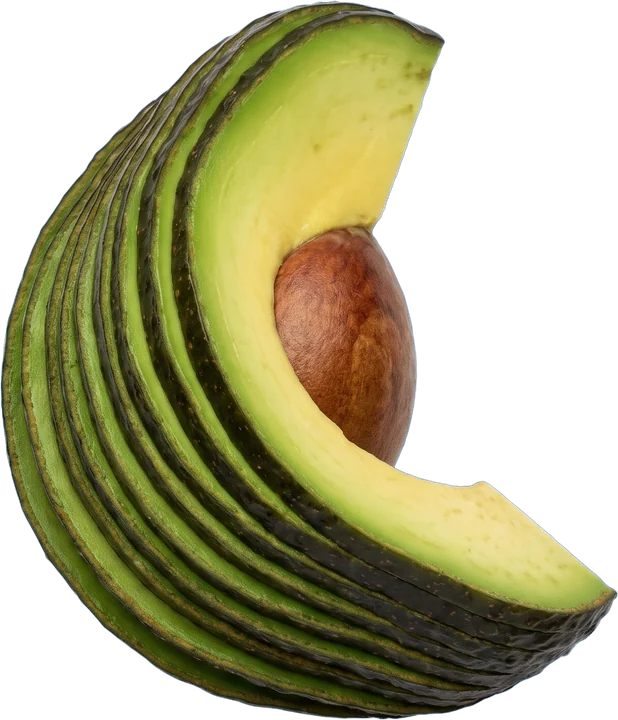
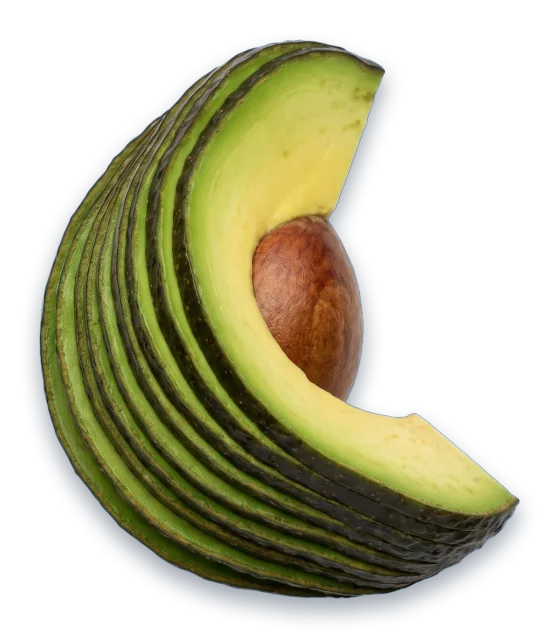
nami: pinned sections fit short screens (height-based sizing), shadows baked into images instead of live filters, delivery route under the headline, steadier pins

diff --git a/public/concepts/nami/index.html b/public/concepts/nami/index.html
@@ -103,10 +103,10 @@ html.no-loader .loader{display:none}
 /* ---------- hero ---------- */
 .hero{position:relative;min-height:100svh;padding:110px var(--pad) 60px;display:grid;grid-template-rows:1fr auto;overflow:hidden}
 .hero-stage{position:relative;display:grid;place-items:center}
-.poke{font:900 clamp(7rem,27vw,30rem)/.8 var(--display);letter-spacing:-.04em;color:var(--coral);-webkit-text-stroke:.012em var(--ink);paint-order:stroke fill;text-shadow:.035em .035em 0 var(--ink);margin:0;display:flex;justify-content:center;white-space:nowrap;user-select:none}
-.poke span{display:inline-block;will-change:transform}
-.bowl-hero{position:absolute;left:50%;top:50%;width:clamp(260px,38vw,560px);aspect-ratio:1;translate:-50% -46%;z-index:2}
-.bowl-hero .spin{width:100%;height:100%;filter:drop-shadow(0 30px 40px rgba(16,36,58,.28))}
+.poke{font:900 clamp(5rem,min(27vw,46vh),30rem)/.8 var(--display);letter-spacing:-.04em;color:var(--coral);-webkit-text-stroke:.012em var(--ink);paint-order:stroke fill;text-shadow:.035em .035em 0 var(--ink);margin:0;display:flex;justify-content:center;white-space:nowrap;user-select:none}
+.poke span{display:inline-block}
+.bowl-hero{position:absolute;left:50%;top:50%;width:clamp(240px,min(38vw,64vh),560px);aspect-ratio:1;translate:-50% -46%;z-index:2}
+.bowl-hero .spin{width:100%;height:100%}
 .bowl-hero img{width:100%;height:100%;object-fit:contain}
 .eyes{position:absolute;left:50%;top:8%;translate:-50% 0;display:flex;gap:6%;width:46%;z-index:3;pointer-events:none}
 .eye{position:relative;flex:1;aspect-ratio:1;background:#fff;border:3px solid var(--ink);border-radius:50%;box-shadow:3px 4px 0 var(--ink);overflow:hidden}
@@ -145,13 +145,13 @@ html.no-loader .loader{display:none}
 
 /* ---------- menu (ocean) ---------- */
 .menu{position:relative;background:var(--ocean);color:var(--rice);z-index:2}
-.menu-pin{min-height:100svh;display:flex;flex-direction:column;justify-content:center;padding:clamp(96px,9vw,120px) 0 clamp(40px,5vw,70px);overflow:hidden}
-.menu-head .h2{font-size:clamp(2.4rem,5.6vw,5.4rem)}
+.menu-pin{min-height:100svh;display:flex;flex-direction:column;justify-content:center;padding:clamp(76px,11vh,120px) 0 clamp(20px,4vh,60px);overflow:hidden}
+.menu-head .h2{font-size:clamp(2.2rem,min(5.6vw,9.5vh),5.4rem)}
 .menu-head{display:flex;justify-content:space-between;align-items:flex-end;gap:30px;flex-wrap:wrap}
 .menu-head .h2 .o{-webkit-text-stroke-color:var(--rice)}
 .menu-head p{max-width:34ch;margin:0;opacity:.85}
-.menu-track{display:flex;gap:clamp(18px,2vw,30px);padding:clamp(30px,3.5vw,50px) var(--pad) 10px;width:max-content;will-change:transform}
-.bcard{position:relative;width:clamp(280px,25vw,360px);flex:none;border:3px solid var(--ink);border-radius:28px;padding:22px 22px 26px;color:var(--ink);box-shadow:7px 7px 0 var(--ink);display:flex;flex-direction:column}
+.menu-track{display:flex;gap:clamp(18px,2vw,30px);padding:clamp(18px,4vh,50px) var(--pad) 10px;width:max-content;will-change:transform}
+.bcard{position:relative;width:clamp(240px,min(25vw,44vh),360px);flex:none;border:3px solid var(--ink);border-radius:28px;padding:22px 22px 26px;color:var(--ink);box-shadow:7px 7px 0 var(--ink);display:flex;flex-direction:column}
 .bcard:nth-child(5n+1){background:var(--rice)}
 .bcard:nth-child(5n+2){background:var(--coral);color:var(--rice)}
 .bcard:nth-child(5n+3){background:var(--mango)}
@@ -159,9 +159,9 @@ html.no-loader .loader{display:none}
 .bcard:nth-child(5n+5){background:#F7C9B6}
 .bcard .no{font:700 .72rem/1 var(--display);letter-spacing:.1em;opacity:.7}
 .bcard .pic{position:relative;width:66%;margin:8px auto 4px;aspect-ratio:1}
-.bcard .pic img{width:100%;height:100%;object-fit:contain;filter:drop-shadow(0 16px 18px rgba(16,36,58,.3));transition:transform 1.1s var(--ease)}
+.bcard .pic img{width:100%;height:100%;object-fit:contain;transition:transform 1.1s var(--ease)}
 .bcard:hover .pic img{transform:rotate(40deg) scale(1.04)}
-.bcard h3{font:900 clamp(1.25rem,1.7vw,1.6rem)/1 var(--display);text-transform:uppercase;letter-spacing:-.01em;margin:12px 0 8px}
+.bcard h3{font:900 clamp(1.1rem,min(1.7vw,3vh),1.6rem)/1 var(--display);text-transform:uppercase;letter-spacing:-.01em;margin:12px 0 8px}
 .bcard p{margin:0;font-size:.95rem;line-height:1.45;opacity:.9;flex:1}
 .bcard .row{display:flex;justify-content:space-between;align-items:center;margin-top:18px}
 .bcard .price{font:900 1.35rem/1 var(--display)}
@@ -179,33 +179,34 @@ html.no-loader .loader{display:none}
 .steps p{margin:0;font-size:.95rem;line-height:1.45}
 .bar{height:6px;border-radius:6px;background:rgba(16,36,58,.12);margin-top:26px;overflow:hidden;max-width:420px}
 .bar i{display:block;height:100%;width:100%;background:var(--coral);transform-origin:left;transform:scaleX(0)}
-.plate{position:relative;width:100%;max-width:640px;aspect-ratio:1;margin:0 auto}
+.plate{position:relative;width:100%;max-width:min(640px,72vh);aspect-ratio:1;margin:0 auto}
+.compose-pin .h2{font-size:clamp(2.2rem,min(7.4vw,10.5vh),7.2rem)}
 .plate .ring{position:absolute;inset:4%;border-radius:50%;border:2.5px dashed rgba(16,36,58,.25)}
 .plate .bw{position:absolute;inset:12%}
-.plate .bw img{position:absolute;inset:0;width:100%;height:100%;object-fit:contain;filter:drop-shadow(0 26px 30px rgba(16,36,58,.25))}
+.plate .bw img{position:absolute;inset:0;width:100%;height:100%;object-fit:contain}
 .plate .full{opacity:0}
-.ing{position:absolute;width:28%;left:36%;top:36%;z-index:3;filter:drop-shadow(0 14px 14px rgba(16,36,58,.25));will-change:transform}
+.ing{position:absolute;width:28%;left:36%;top:36%;z-index:3}
 .ing img{width:100%}
 .done{position:absolute;right:2%;top:4%;rotate:10deg;z-index:5;opacity:0}
 
 /* ---------- wave photo ---------- */
 .dive{position:relative;height:clamp(520px,110vh,1100px);overflow:hidden;background:var(--foam)}
 .dive-frame{position:absolute;inset:0;clip-path:url(#waveClip)}
-.dive-frame img{width:100%;height:100%;object-fit:cover;transform:scale(1.25);will-change:transform}
+.dive-frame img{width:100%;height:100%;object-fit:cover;transform:scale(1.25)}
 .dive-frame::after{content:"";position:absolute;inset:0;background:linear-gradient(to top,rgba(14,59,92,.55),transparent 55%)}
-.dive-text{position:absolute;left:0;right:0;bottom:16%;z-index:2;font:900 clamp(3rem,11vw,11rem)/.9 var(--display);text-transform:uppercase;letter-spacing:-.03em;color:var(--rice);white-space:nowrap;text-shadow:.03em .03em 0 var(--ink);-webkit-text-stroke:.012em var(--ink);paint-order:stroke fill;will-change:transform}
+.dive-text{position:absolute;left:0;right:0;bottom:16%;z-index:2;font:900 clamp(3rem,11vw,11rem)/.9 var(--display);text-transform:uppercase;letter-spacing:-.03em;color:var(--rice);white-space:nowrap;text-shadow:.03em .03em 0 var(--ink);-webkit-text-stroke:.012em var(--ink);paint-order:stroke fill}
 
 /* ---------- delivery (mango) ---------- */
 .deliv{position:relative;background:var(--mango);z-index:2}
 .deliv-pin{position:relative;height:100svh;overflow:hidden}
 .deliv-copy{position:absolute;left:var(--pad);top:clamp(90px,11vw,140px);z-index:3;max-width:820px}
-.deliv-copy .h2{font-size:clamp(2.3rem,5.4vw,5.4rem)}
+.deliv-copy .h2{font-size:clamp(2rem,min(5.4vw,9vh),5.4rem)}
 .deliv-copy .h2{color:var(--rice);-webkit-text-stroke:.02em var(--ink);paint-order:stroke fill;text-shadow:.04em .04em 0 var(--ink)}
 .deliv-copy .lead{margin-top:22px;font-weight:500}
 .route{position:absolute;inset:0;width:100%;height:100%;z-index:1}
 .route path{fill:none;stroke:var(--ink);stroke-width:3;stroke-dasharray:2 14;stroke-linecap:round;opacity:.45}
-.fish{position:absolute;left:0;top:0;width:92px;z-index:4;will-change:transform}
-.pol{position:absolute;z-index:2;width:clamp(130px,13vw,190px);background:var(--rice);padding:9px 9px 34px;border:2.5px solid var(--ink);border-radius:6px;box-shadow:5px 5px 0 var(--ink);transform:scale(0);transform-origin:50% 100%}
+.fish{position:absolute;left:0;top:0;width:92px;z-index:4}
+.pol{position:absolute;z-index:2;width:clamp(110px,min(13vw,22vh),190px);background:var(--rice);padding:9px 9px 34px;border:2.5px solid var(--ink);border-radius:6px;box-shadow:5px 5px 0 var(--ink);transform:scale(0);transform-origin:50% 100%}
 .pol img{width:100%;aspect-ratio:3/4;object-fit:cover;border-radius:3px}
 .pol span{position:absolute;left:0;right:0;bottom:9px;text-align:center;font:700 .74rem/1 var(--display);text-transform:uppercase;letter-spacing:.05em}
 
@@ -229,7 +230,7 @@ html.no-loader .loader{display:none}
 .portrait .ph{border:3px solid var(--ink);border-radius:46% 54% 48% 52% / 40% 42% 58% 60%;overflow:hidden;box-shadow:8px 8px 0 var(--ink);aspect-ratio:4/5}
 .portrait .ph img{width:100%;height:100%;object-fit:cover}
 .portrait .sticker{position:absolute;left:-6%;top:12%;rotate:-10deg;font-size:1rem}
-.portrait .ing-float{position:absolute;width:34%;right:-10%;bottom:6%;rotate:12deg;filter:drop-shadow(0 14px 14px rgba(16,36,58,.3))}
+.portrait .ing-float{position:absolute;width:34%;right:-10%;bottom:6%;rotate:12deg}
 
 /* ---------- footer ---------- */
 .foot{position:relative;background:var(--ocean);color:var(--rice);padding:clamp(110px,12vw,160px) 0 26px;overflow:hidden}
@@ -241,7 +242,7 @@ html.no-loader .loader{display:none}
 .giant .word{font:400 clamp(8rem,34vw,34rem)/1 var(--logo);margin-top:-.42em;padding-bottom:.38em;color:var(--coral);-webkit-text-stroke:.012em var(--ink);paint-order:stroke fill;text-shadow:.025em .025em 0 var(--ink);text-align:center;letter-spacing:-.02em;user-select:none}
 .giant .word span{display:inline-block;transition:transform .5s var(--ease)}
 .giant .word span:hover{transform:translateY(-6%) rotate(-4deg)}
-.drop{position:absolute;width:clamp(56px,8vw,130px);top:0;left:0;z-index:2;pointer-events:none;filter:drop-shadow(0 10px 10px rgba(0,0,0,.25))}
+.drop{position:absolute;width:clamp(56px,8vw,130px);top:0;left:0;z-index:2;pointer-events:none}
 .foot-base{display:flex;justify-content:space-between;flex-wrap:wrap;gap:10px;margin-top:22px;padding-top:18px;border-top:1px solid rgba(255,246,234,.18);font-size:.82rem;opacity:.75}
 .foot-base a{text-decoration:underline}
 
@@ -276,6 +277,20 @@ html.no-loader .loader{display:none}
   .fish{width:64px}
   .visit-grid{grid-template-columns:1fr}
   .foot-grid{grid-template-columns:repeat(2,minmax(0,1fr))}
+}
+@media (min-width:901px) and (max-height:820px){
+  .compose-pin{padding-top:84px;padding-bottom:24px}
+  .compose-pin .sticker{margin-bottom:12px!important}
+  .steps{margin-top:16px;gap:6px}
+  .steps li{grid-template-columns:40px 1fr;gap:10px}
+  .steps li .n{width:40px;height:40px;font-size:.75rem}
+  .steps h3{font-size:1rem;margin-top:8px}
+  .steps p{display:none}
+  .steps li.on p{display:block}
+  .bar{margin-top:14px}
+  .deliv-copy{top:84px}
+  .deliv-copy .sticker{margin-bottom:12px!important}
+  .deliv-copy .lead{margin-top:12px;font-size:.95rem}
 }
 @media (prefers-reduced-motion:reduce){
   *{animation:none!important;transition:none!important}
@@ -354,7 +369,7 @@ html.no-loader .loader{display:none}
       <span>P</span><span>O</span><span>K</span><span>É</span>
     </h1>
     <div class="bowl-hero" id="heroBowl">
-      <div class="spin" id="heroSpin"><img src="assets/bowl-nami.webp" alt="Bol signature nami : saumon, avocat, mangue, edamame et mayo épicée" data-alt-en="Signature nami bowl: salmon, avocado, mango, edamame and spicy mayo" width="1174" height="1200" fetchpriority="high"></div>
+      <div class="spin" id="heroSpin"><img src="assets/bowl-nami.webp" alt="Bol signature nami : saumon, avocat, mangue, edamame et mayo épicée" data-alt-en="Signature nami bowl: salmon, avocado, mango, edamame and spicy mayo" width="951" height="970" fetchpriority="high"></div>
       <div class="eyes" id="eyes" aria-hidden="true">
         <span class="eye"><b></b><i class="lid"></i></span>
         <span class="eye"><b></b><i class="lid"></i></span>
@@ -600,6 +615,7 @@ html.no-loader .loader{display:none}
   var $ = function(s, r){ return (r || document).querySelector(s); };
   var $$ = function(s, r){ return Array.prototype.slice.call((r || document).querySelectorAll(s)); };
   gsap.registerPlugin(ScrollTrigger, MotionPathPlugin);
+  ScrollTrigger.config({ ignoreMobileResize: true });
 
   /* ---------- language ---------- */
   var TITLES = { fr: 'nami · poké bar', en: 'nami · poke bar' };
@@ -760,7 +776,7 @@ html.no-loader .loader{display:none}
       var track = $('#menuTrack');
       var dist = function(){ return Math.max(0, track.scrollWidth - window.innerWidth); };
       var tw = gsap.to(track, { x: function(){ return -dist(); }, ease: 'none',
-        scrollTrigger: { trigger: '#menuPin', start: 'top top', end: function(){ return '+=' + dist(); }, pin: true, scrub: 1, invalidateOnRefresh: true } });
+        scrollTrigger: { trigger: '#menuPin', start: 'top top', end: function(){ return '+=' + dist(); }, pin: true, scrub: 1, anticipatePin: 1, invalidateOnRefresh: true } });
       $$('.bcard .pic img').forEach(function(img){
         gsap.to(img, { rotate: 160, ease: 'none', scrollTrigger: { trigger: '#menuPin', start: 'top top', end: function(){ return '+=' + dist(); }, scrub: true } });
       });
@@ -790,7 +806,7 @@ html.no-loader .loader{display:none}
           .to(ings[k], { xPercent: L[0] * 3.6, yPercent: L[1] * 3.6, scale: L[2], rotate: L[3], duration: 1, ease: 'power3.out' }, at);
       }
       mm.add('(min-width: 0px)', function(){
-        var tl = gsap.timeline({ scrollTrigger: { trigger: '#composePin', start: 'top top', end: '+=260%', pin: true, scrub: 1,
+        var tl = gsap.timeline({ scrollTrigger: { trigger: '#composePin', start: 'top top', end: '+=260%', pin: true, scrub: 1, anticipatePin: 1,
           onUpdate: function(self){ var p = self.progress; stepOn(p < .2 ? 0 : p < .45 ? 1 : p < .78 ? 2 : 3); } } });
         tl.to('#bar', { scaleX: 1, ease: 'none', duration: 10 }, 0)
           .from('.plate .base', { scale: .6, rotate: -90, duration: 1.4, ease: 'back.out(1.4)' }, 0);
@@ -816,34 +832,37 @@ html.no-loader .loader{display:none}
       function build(){
         var w = pin.clientWidth, h = pin.clientHeight, mobile = w < 700;
         svg.setAttribute('viewBox', '0 0 ' + w + ' ' + h);
+        var copy = $('.deliv-copy'), copyB = copy.offsetTop + copy.offsetHeight + 16;
+        var top0 = mobile ? copyB : Math.min(copyB, h * .5), span = h - top0;
+        var Y = function(f){ return top0 + span * f; };
         var d;
         if (mobile) {
           var x0 = w * .15, x1 = w * .85;
-          d = 'M' + (-40) + ' ' + (h * .5) + ' C ' + (w * .3) + ' ' + (h * .42) + ' ' + x1 + ' ' + (h * .48) + ' ' + x1 + ' ' + (h * .6)
-            + ' S ' + x0 + ' ' + (h * .64) + ' ' + x0 + ' ' + (h * .74) + ' S ' + x1 + ' ' + (h * .8) + ' ' + x1 + ' ' + (h * .88)
-            + ' S ' + (w * .4) + ' ' + (h * .98) + ' ' + (w + 40) + ' ' + (h * .97);
+          d = 'M' + (-40) + ' ' + Y(.08) + ' C ' + (w * .3) + ' ' + Y(.02) + ' ' + x1 + ' ' + Y(.1) + ' ' + x1 + ' ' + Y(.3)
+            + ' S ' + x0 + ' ' + Y(.42) + ' ' + x0 + ' ' + Y(.58) + ' S ' + x1 + ' ' + Y(.7) + ' ' + x1 + ' ' + Y(.84)
+            + ' S ' + (w * .4) + ' ' + Y(.97) + ' ' + (w + 40) + ' ' + Y(.95);
         } else {
-          d = 'M' + (-60) + ' ' + (h * .74) + ' C ' + (w * .16) + ' ' + (h * .5) + ' ' + (w * .28) + ' ' + (h * .92) + ' ' + (w * .44) + ' ' + (h * .76)
-            + ' S ' + (w * .6) + ' ' + (h * .3) + ' ' + (w * .74) + ' ' + (h * .46) + ' S ' + (w * .9) + ' ' + (h * .9) + ' ' + (w + 60) + ' ' + (h * .62);
+          d = 'M' + (-60) + ' ' + Y(.55) + ' C ' + (w * .16) + ' ' + Y(.2) + ' ' + (w * .28) + ' ' + Y(.85) + ' ' + (w * .44) + ' ' + Y(.6)
+            + ' S ' + (w * .6) + ' ' + Y(.05) + ' ' + (w * .74) + ' ' + Y(.3) + ' S ' + (w * .9) + ' ' + Y(.85) + ' ' + (w + 60) + ' ' + Y(.45);
         }
         path.setAttribute('d', d);
         var len = path.getTotalLength();
         pols.forEach(function(p, i){
           var pt = path.getPointAtLength(len * STOPS[i]);
           var pw = p.offsetWidth, ph = p.offsetHeight;
-          var copy = $('.deliv-copy'), copyB = copy.offsetTop + copy.offsetHeight + 18, copyR = copy.offsetLeft + copy.offsetWidth;
+          var copyR = copy.offsetLeft + copy.offsetWidth;
           var up = i % 2 === 1;
           var left = Math.min(w - pw - 12, Math.max(12, pt.x - pw / 2));
           var top = up ? pt.y - ph - 30 : pt.y + 30;
           if (mobile) { left = i % 2 ? 16 : w - pw - 16; top = copyB + (h - 12 - ph - copyB) * i / 3; }
-          var minTop = (mobile || left < copyR) ? copyB : 90;
-          p.style.left = left + 'px'; p.style.top = Math.max(minTop, Math.min(h - ph - 12, top)) + 'px';
+          var minTop = (mobile || left < copyR) ? copyB : 84;
+          p.style.left = left + 'px'; p.style.top = Math.max(minTop, Math.min(h - ph - 20, top)) + 'px';
           p.style.rotate = ([-6, 5, -4, 7][i]) + 'deg';
         });
       }
       build();
       ScrollTrigger.addEventListener('refreshInit', build);
-      tl = gsap.timeline({ scrollTrigger: { trigger: pin, start: 'top top', end: '+=220%', pin: true, scrub: 1 } });
+      tl = gsap.timeline({ scrollTrigger: { trigger: pin, start: 'top top', end: '+=220%', pin: true, scrub: 1, anticipatePin: 1 } });
       tl.to('#fish', { motionPath: { path: path, align: path, alignOrigin: [.5, .5], autoRotate: true }, ease: 'none', duration: 1 }, 0);
       pols.forEach(function(p, i){
         tl.to(p, { scale: 1, duration: .08, ease: 'back.out(2.5)' }, STOPS[i] - .04);
